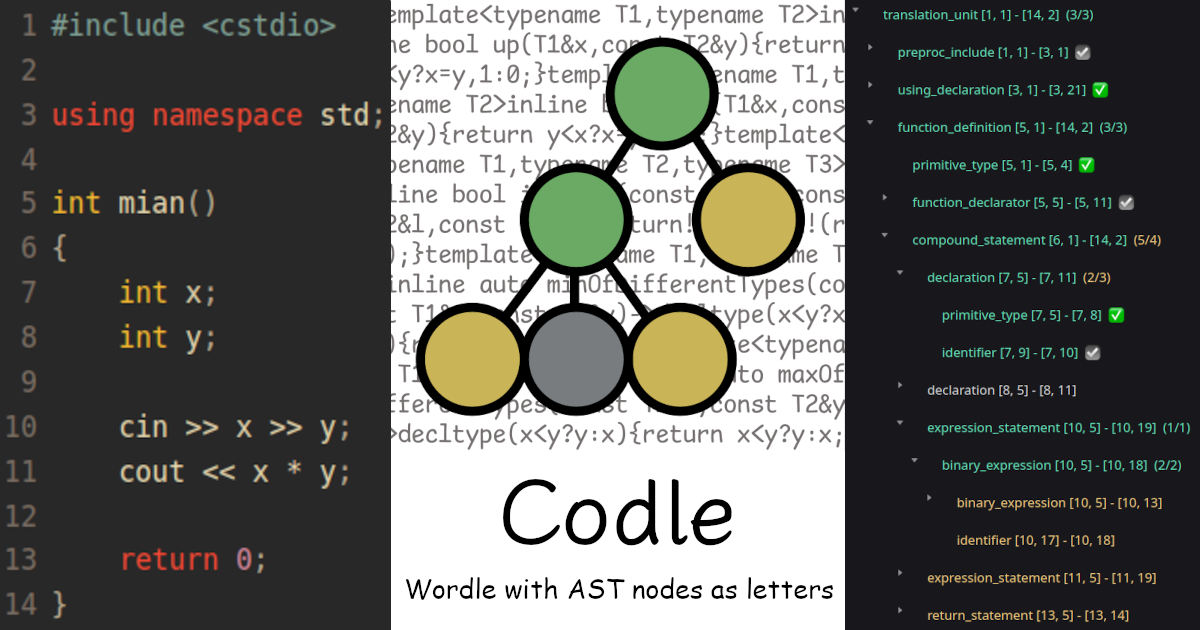
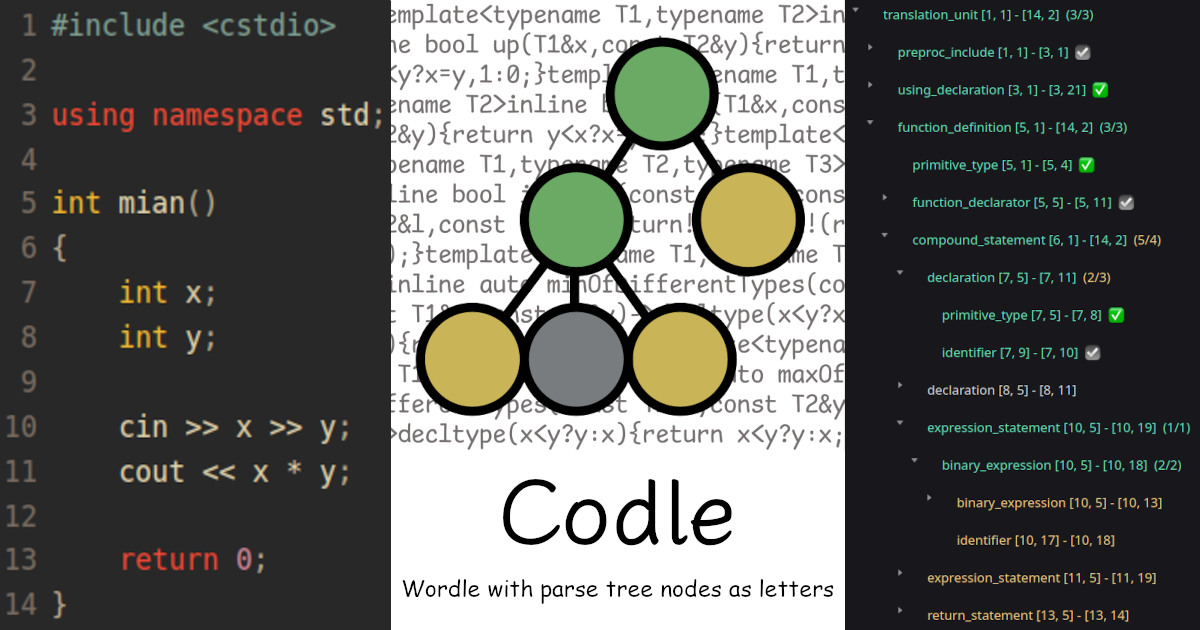
fix: parse tree, not AST

Changed region(s): [[0.3392, 0.9048, 0.7092, 0.9651]]

diff --git a/src/components/GameRuleDialog.vue b/src/components/GameRuleDialog.vue
@@ -21,18 +21,19 @@
         so the rule will be easier to understand if you are already familiar with Wordle.
         This game would also require some basic knowledge about the C++ programming language and its
         <external-link
-          href="https://en.wikipedia.org/wiki/Abstract_syntax_tree"
-          title="Abstract Syntax Tree (AST)"
+          href="https://en.wikipedia.org/wiki/Parse_tree"
+          title="parse tree"
         />,
         but you don't need to master them very well.
       </n-p>
       <n-p>
         In this game,
-        you need to guess the AST of a piece of C++ code called the <i>target code</i>.
-        You only need to find out the <i>type</i> of each node in the AST,
+        you need to guess the parse tree of a piece of C++ code called the <i>target code</i>.
+        You only need to find out the <i>type</i> of each node in the parse tree,
         so the actual content of the code does <strong>not</strong> matter.
         In each guess, you need to provide a piece of code,
-        and you'll get the difference between your code's AST and the target code's AST as a hint.
+        and you'll get the difference between your code's parse tree
+        and the target code's parse tree as a hint.
       </n-p>
       <n-p>
         The hint will be in a format similar to Wordle's hint:
@@ -56,7 +57,7 @@
         guess="int x = 0, y = 0, z, w;"
       />
       <n-p>
-        Since AST is a tree, the "correct position" needs more explanation.
+        Since parse tree is a tree, the "correct position" needs more explanation.
         In short, a necessary condition for a node to be
         <n-text
           v-for="(c, index) of 'colored'"
@@ -119,7 +120,7 @@
         However, only one type will be revealed after every single guess, by design.
       </n-p>
       <n-p>
-        So what is the <i>type</i> of an AST node?
+        So what is the <i>type</i> of a tree node?
         The answer is complicated, but you don't have to know every single node type.
         Just try a few guesses and you'll roughly know what they look like.
         You can hover on (in the real game, not in the demo above)
@@ -132,17 +133,17 @@
         >
           node
         </grammar-rule-dialog>
-        , either in the node type list or in the AST,
+        , either in the node type list or in the tree,
         to see the grammar structure of the corresponding node type.
         In the grammar structure,
         <n-text type="success">
           green nodes
         </n-text>
-        are node types displayed in the AST,
+        are node types displayed in the tree,
         <n-text type="warning">
           yellow nodes
         </n-text>
-        are "node types" that are not displayed in the AST.
+        are "node types" that are not displayed in the tree.
         Strings are shown as
         <n-text code>
           "string"
@@ -160,7 +161,7 @@
           href="https://tree-sitter.github.io/tree-sitter/playground"
           title="Tree-sitter Playground"
         />
-        which can show you the AST of a piece of code.
+        which can show you the parse tree of a piece of code.
       </n-p>
       <n-p>
         It could be troublesome to focus on editing a subtree of your code in the main code editor.
@@ -175,7 +176,7 @@
         there will be an associated algorithm or coding problem.
         The target code is guaranteed to be a valid solution to the problem,
         but your code doesn't need to solve the problem — it even doesn't need to compile,
-        as the only thing that matters is the AST.
+        as the only thing that matters is the parse tree.
         The problem won't be hard, since the goal is not to solve it.
       </n-p>
       <n-p>

diff --git a/index.html b/index.html
@@ -6,9 +6,9 @@
   <meta http-equiv="X-UA-Compatible" content="IE=edge">
   <meta name="viewport" content="width=device-width,initial-scale=1.0">
   <meta name="author" content="ouuan">
-  <meta name="description" content="A game to guess a target code's AST like Wordle with AST nodes as letters">
+  <meta name="description" content="A game to guess a target code's parse tree like Wordle with tree nodes as letters">
   <link rel="canonical" href="https://<%- host %>">
-  <title>Codle | Wordle with AST nodes as letters</title>
+  <title>Codle | Wordle with parse tree nodes as letters</title>
 
   <link href="/index.xml" rel="feed" type="application/rss+xml" title="Codle Puzzles">
   <link href="/atom.xml" rel="feed" type="application/atom+xml" title="Codle Puzzles">
@@ -37,7 +37,7 @@
   <link rel="manifest" href="/manifest.json">
 
   <meta property="og:title" content="Codle" />
-  <meta property="og:description" content="A game to guess a target code's AST like Wordle with AST nodes as letters">
+  <meta property="og:description" content="A game to guess a target code's parse tree like Wordle with tree nodes as letters">
   <meta property="og:type" content="website" />
   <meta property="og:url" content="https://<%- host %>" />
   <meta property="og:image" content="https://<%- host %>/images/og-image.png" />

diff --git a/src/components/AboutDialog.vue b/src/components/AboutDialog.vue
@@ -10,14 +10,14 @@
           href="https://github.com/ouuan"
           title="ouuan"
         />.
-        In this game, you need to guess the Abstract Syntax Tree (AST)
+        In this game, you need to guess the parse tree (concrete syntax tree)
         of a piece of code called "target code".
         It's like
         <external-link
           href="https://www.nytimes.com/games/wordle/index.html"
           title="Wordle"
         />
-        with AST nodes as "letters".
+        with tree nodes as "letters".
       </n-p>
       <n-p>
         It's open-sourced at
@@ -133,7 +133,7 @@
           <p>
             That's how Codle works :)
             <br>
-            AST is the only thing that matters, and your code doesn't even need to compile.
+            Parse tree is the only thing that matters, and your code doesn't even need to compile.
           </p>
         </n-li>
       </n-ul>

diff --git a/src/components/MainPage.vue b/src/components/MainPage.vue
@@ -11,7 +11,7 @@
       <n-page-header
         class="page-header"
         title="Codle"
-        subtitle="Wordle with AST nodes as letters"
+        subtitle="Wordle with parse tree nodes as letters"
       >
         <template #extra>
           <plausible-dialog />
@@ -260,7 +260,7 @@ onMounted(async () => {
     }
     loadPhase.value = 'Loading TreeSitter...';
     await initParser;
-    loadPhase.value = 'Constructing AST...';
+    loadPhase.value = 'Constructing parse tree...';
     const tree = await parse(targetCode.value);
     correctRoot.value = tree.rootNode;
     loadPhase.value = true;

diff --git a/src/vite/transformPuzzles.ts b/src/vite/transformPuzzles.ts
@@ -87,7 +87,7 @@ export default function transformPuzzles(): Plugin {
     async buildStart() {
       const feed = new Feed({
         title: 'Codle Puzzles',
-        description: "A game to guess a target code's AST like Wordle with AST nodes as letters",
+        description: "A game to guess a target code's parse tree like Wordle with tree nodes as letters",
         id: `https://${host}`,
         link: `https://${host}`,
         image: `https://${host}/images/og-image.png`,

diff --git a/README.md b/README.md
@@ -1,6 +1,6 @@
 # Codle
 
-Guess code like Wordle with AST nodes as letters. [Play it!](https://codle.ouuan.moe)
+Guess code like Wordle with parse tree nodes as letters. [Play it!](https://codle.ouuan.moe)
 
 [![preview image](public/images/og-image.png)](https://codle.ouuan.moe)
 
